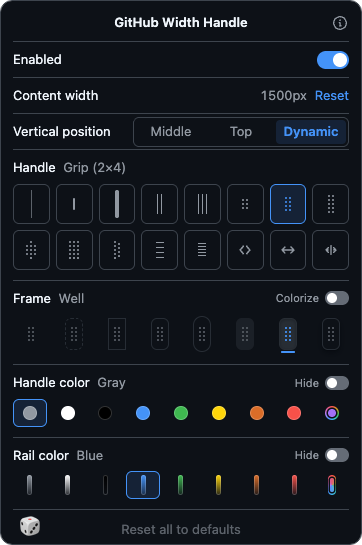
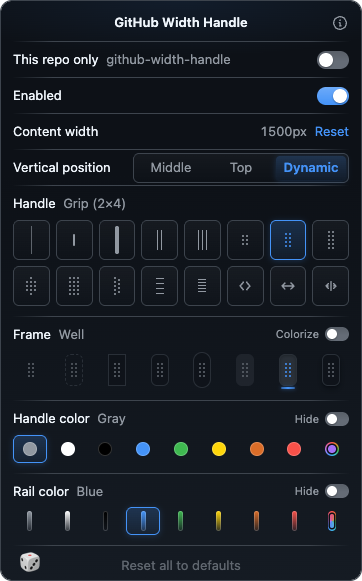
style(glass): drop Shape/Colors section titles, keep a 12px gap between cards
docs: regenerate popup screenshots (classic polish, repo row) and add Liquid glass popup screenshots to the README

diff --git a/src/popup.html b/src/popup.html
@@ -48,7 +48,6 @@
       <div id="positions" class="segments" role="radiogroup" aria-labelledby="position-label"></div>
     </div>
     </section>
-    <h2 class="section-title">Shape</h2>
     <section class="card">
     <div class="row stack">
       <span id="handle-label">Handle <span id="handle-name" class="muted"></span></span>
@@ -62,7 +61,6 @@
       <div id="frames" class="frames" role="radiogroup" aria-labelledby="frame-label"></div>
     </div>
     </section>
-    <h2 class="section-title">Colors</h2>
     <section class="card">
     <div class="row stack">
       <span class="head">

diff --git a/src/glass.css b/src/glass.css
@@ -531,15 +531,9 @@
   border-top-color: var(--border);
 }
 
-/* Section headings sit between the cards, inset to line up with the card text. */
-.glass .section-title {
-  display: block;
-  padding: 0 14px 2px;
-  line-height: 1.1;
-  color: var(--fg-muted);
-  font-size: 13px;
-  font-weight: 500;
-  letter-spacing: -0.1px;
+/* A little extra air between cards, where the section headings used to sit. */
+.glass .card + .card {
+  margin-top: 12px;
 }
 
 /* Dice: a round glass button beside the wide Reset all capsule. */

diff --git a/src/popup.css b/src/popup.css
@@ -109,17 +109,6 @@ header .info {
   margin-left: auto;
 }
 
-/* Section headings ("Shape", "Colors"): shown only in the Liquid glass theme. */
-.section-title {
-  display: none;
-  margin: 0;
-  padding: 8px 0 2px;
-  font-size: 13px;
-  font-weight: 600;
-  line-height: 1.5;
-  text-align: center;
-}
-
 .value {
   display: flex;
   align-items: center;

diff --git a/README.md b/README.md
@@ -24,11 +24,12 @@ As you scroll, the handle stays at the middle of the window.
 
 ### Settings popup
 
-The popup follows your system's light or dark setting.
+The popup follows your system's light or dark setting. Shown on a repo page, with the **This repo only** switch, in the classic theme and in the Liquid glass (beta) theme.
 
 | Light | Dark |
 | --- | --- |
 | ![Settings popup, light theme](docs/popup-light.png) | ![Settings popup, dark theme](docs/popup-dark.png) |
+| ![Settings popup, Liquid glass, light theme](docs/popup-glass-light.png) | ![Settings popup, Liquid glass, dark theme](docs/popup-glass-dark.png) |
 
 ### Color combinations
 
